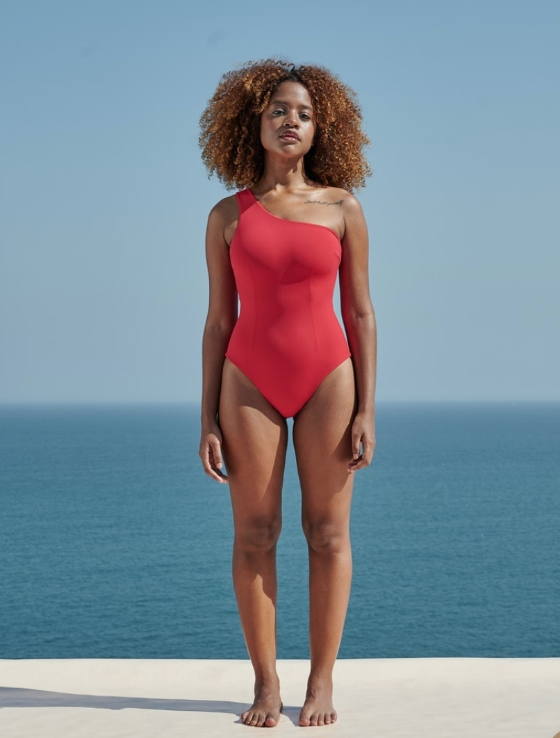
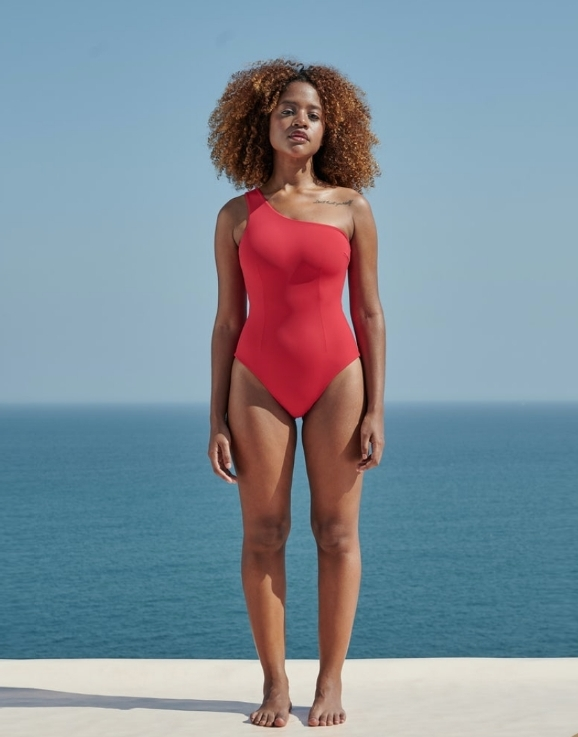
Resize Images, adding bottom gap to footer

diff --git a/src/pages/Collection.jsx b/src/pages/Collection.jsx
@@ -7,6 +7,7 @@ import { LazyLoadImage } from 'react-lazy-load-image-component';
 import FiltersToolbar from '../components/FiltersToolbar/FiltersToolbar'
 // assets
 import { collectionItems } from '../data/collection';
+import 'react-lazy-load-image-component/src/effects/blur.css';
 
 
 const Collection = () => {
@@ -25,6 +26,8 @@ const Collection = () => {
                 className={classes.image} 
                 src={product.img} 
                 alt={product.name}
+                useIntersectionObserver={true}
+                effect="blur"
               />
             </GridListTile>
           ))}
@@ -37,10 +40,10 @@ const Collection = () => {
 
 const useStyles = makeStyles((theme) => ({
   gridContainer: {
-    // display: 'flex',
-    // flexWrap: 'wrap',
-    // justifyContent: 'space-around',
-    // overflow: 'hidden',
+    display: 'flex',
+    flexWrap: 'wrap',
+    justifyContent: 'space-around',
+    overflow: 'hidden',
   },
   gridList: {
     margin: '0 !important'

diff --git a/src/components/Footer/Footer.jsx b/src/components/Footer/Footer.jsx
@@ -115,8 +115,6 @@ const Footer = () => {
             </Grid>
           </Grid>
         </Box>
-        
-        
       </Container>
     </footer>
   )
@@ -125,7 +123,8 @@ const Footer = () => {
 const useStyles = makeStyles(theme => ({
   footer: {
     textTransform: 'uppercase',
-    color: theme.palette.primary.contrastText
+    color: theme.palette.primary.contrastText,
+    paddingBottom: '70px'
   },
   logoFooter: {
     maxWidth: '450px'
